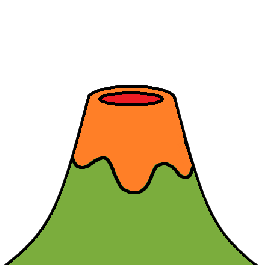
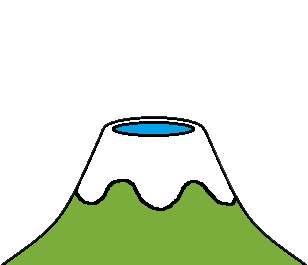
이미지 파일 교체, 클래스 이름 변경, 메인 파일 수정

diff --git a/src/main/resources/templates/main.html b/src/main/resources/templates/main.html
@@ -27,13 +27,12 @@
         </div>
     </div>
     <div class="bottomSpace">
-        <div class="scheduleBtnDiv">
-
+<!--        <div class="scheduleBtnDiv">-->
+            <img src="/images/volcanoBoom.png" alt="" class="volcanoBoom">
             <button type="button" class="scheduleBtn" onclick="location.href='/schedule'">
                 <img src="/images/volcano.png" alt="스케줄" class="volcano">
-                <img src="/images/volcanoBoom.png" alt="" class="volcanoBoom">
             </button>
-        </div>
+<!--        </div>-->
     </div>
 </div>
 

diff --git a/src/main/resources/static/css/main.css b/src/main/resources/static/css/main.css
@@ -75,17 +75,14 @@ body{
 
 }
 .scheduleBtnDiv{
-    height: 265px;
-    width: 265px;
 }
 .scheduleBtn{
+    height: 265px;
+    width: 400px;
     border: none;
     background: none;
-}
-
-.volcano{
-    display: block;
-    margin-top: 130px;
+    margin-top: 120px;
+    margin-left: -25px;
 }
 
 .volcanoBoom{

diff --git a/src/main/java/com/ohgiraffers/adregamdi/place/query/infra/repository/PlaceRepository.java b/src/main/java/com/ohgiraffers/adregamdi/place/query/infra/repository/PlaceRepository.java
@@ -3,13 +3,19 @@ package com.ohgiraffers.adregamdi.place.query.infra.repository;
 import com.ohgiraffers.adregamdi.place.query.domain.entity.Place;
 
 public class PlaceRepository {
+    // 맵 id 받아서 query repository에서 서비스로 맵 세부정보 페이지 맵핑
 //    public Place findPlaceDetailByPlaceSequence(){}
+    // 맵 id 받아서 -- 서비스로 올리기
 //    public Place findPlaceReviewList(){}
+    // 전체 조회
 //    public Place findPlaceList(){}
+    // 카테고리 코드 받아서 조회
 //    public Place findPlaceListByCategory(){}
+    // 검색 ?? 잘 모르겠음
 //    public Place findPlaceListBySearch(){}
+    // 검색
 //    public Place findPlaceListBySearchAndCategory(){}
-//
+// 좌표 값으로 리스트 조회인데 잘 모르겠음
 //    public Place findPlaceListByBound(){}
 
 }

diff --git a/src/main/java/com/ohgiraffers/adregamdi/place/command/domain/repository/PlaceRepository.java b/src/main/java/com/ohgiraffers/adregamdi/place/command/domain/repository/PlaceRepository.java
@@ -1,4 +1,4 @@
 package com.ohgiraffers.adregamdi.place.command.domain.repository;
 
-public class test {
+public interface PlaceRepository {
 }

diff --git a/src/main/java/com/ohgiraffers/adregamdi/place/command/infra/repository/PlaceRepository.java b/src/main/java/com/ohgiraffers/adregamdi/place/command/infra/repository/PlaceRepository.java
@@ -1,4 +1,4 @@
 package com.ohgiraffers.adregamdi.place.command.infra.repository;
 
-public class test {
+public class PlaceRepository {
 }

diff --git a/src/main/java/com/ohgiraffers/adregamdi/place/command/infra/service/PlaceService.java b/src/main/java/com/ohgiraffers/adregamdi/place/command/infra/service/PlaceService.java
@@ -1,4 +1,4 @@
 package com.ohgiraffers.adregamdi.place.command.infra.service;
 
-public class test {
+public class PlaceService {
 }
